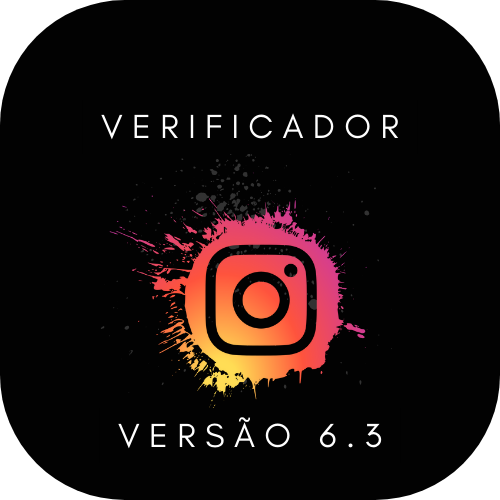
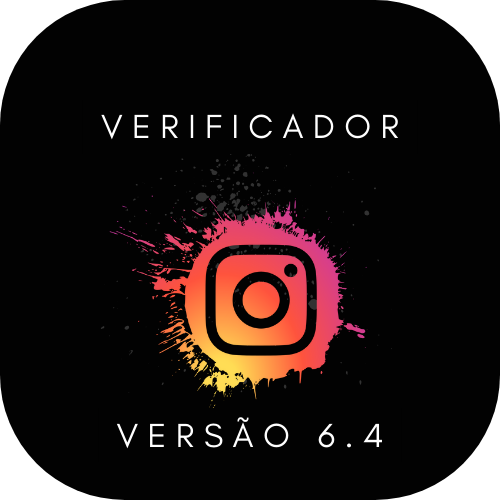
Atualização 6.4 - Adicionado sistema para coletar link de fotos de cada perfil

Changed region(s): [[0.24, 0.84, 0.6, 0.9], [0.72, 0.84, 0.78, 0.9], [0.63, 0.84, 0.69, 0.9]]

diff --git a/interface_verificador.py b/interface_verificador.py
@@ -5,9 +5,9 @@ from threading import Thread
 from playwright.sync_api import sync_playwright
 from PyQt5.QtCore import QObject, Qt, QTimer, pyqtSignal
 from PyQt5.QtGui import QIcon
-from PyQt5.QtWidgets import (QApplication, QComboBox, QDesktopWidget,
-                             QHBoxLayout, QLabel, QPushButton, QTextEdit,
-                             QVBoxLayout, QWidget)
+from PyQt5.QtWidgets import (QApplication, QComboBox, QDesktopWidget, QFrame,
+                             QHBoxLayout, QLabel, QPushButton, QScrollArea,
+                             QTextEdit, QVBoxLayout, QWidget)
 
 from main import run
 from styles.css_verificador import estilo_verificador
@@ -39,7 +39,6 @@ class MainWindow(QWidget):
         super().__init__()
 
         self.setWindowTitle('IR Automações')
-        
         self.resize(350, 600)  # Definindo o tamanho da janela
 
         # Centraliza a janela na tela
@@ -61,55 +60,76 @@ class MainWindow(QWidget):
         icone_logo = QIcon(logo)
 
         # Define um layout principal vertical
-        layout = QVBoxLayout()
+        layout_principal = QVBoxLayout(self)
+
+        # Cria um widget de área de rolagem
+        scroll_area = QScrollArea()
+        scroll_area.setWidgetResizable(True)
+        layout_principal.addWidget(scroll_area)
+
+        # Cria um widget central para conter todos os widgets do layout rolável
+        central_widget = QWidget()
+        scroll_area.setWidget(central_widget)
+
+        # Define um layout principal vertical para o widget central
+        layout_central = QVBoxLayout(central_widget)
 
         # Título centralizado
         label_icone = QLabel()
-        icone_logo = QIcon('./storage/img/verificador.png')
         label_icone.setPixmap(icone_logo.pixmap(250, 250))
         label_icone.setAlignment(Qt.AlignCenter)
-        layout.addWidget(label_icone)
+        layout_central.addWidget(label_icone)
 
         # Formulário
         label_perfis = QLabel('Digite os perfis do Instagram:')
         label_perfis.setAlignment(Qt.AlignCenter)
+        layout_central.addWidget(label_perfis)
         self.lista_de_perfis = QTextEdit()
-        # Adicionando o placeholder
-        self.lista_de_perfis.setPlaceholderText("usuario senha\nusuario senha\nusuario senha\nusuario senha\nusuario senha\nusuario senha")  
+        self.lista_de_perfis.setPlaceholderText("usuario senha\nusuario senha\nusuario senha\nusuario senha\nusuario senha\nusuario senha")
+        layout_central.addWidget(self.lista_de_perfis)
         label_modo = QLabel('Navegador Visível')
         label_modo.setAlignment(Qt.AlignCenter)
-        self.modo = QComboBox()  # Removido o modo local para que possa ser acessado globalmente
+        layout_central.addWidget(label_modo)
+        self.modo = QComboBox()
         self.modo.addItems(['Sim', 'Não'])
+        layout_central.addWidget(self.modo)
         label_navegador = QLabel('Navegador padrão')
         label_navegador.setAlignment(Qt.AlignCenter)
-        self.navegador = QComboBox()  # Removido o navegador local para que possa ser acessado globalmente
+        layout_central.addWidget(label_navegador)
+        self.navegador = QComboBox()
         self.navegador.addItems(['Brave', 'Google Chrome', 'Edge'])
+        layout_central.addWidget(self.navegador)
+        label_link_posts = QLabel('Salvar link de fotos de cada perfil\nObs: A verificação ficará lenta.')
+        label_link_posts.setAlignment(Qt.AlignCenter)
+        layout_central.addWidget(label_link_posts)
+        self.link_posts = QComboBox()
+        self.link_posts.addItems(['Sim', 'Não'])
+        layout_central.addWidget(self.link_posts)
 
-        layout.addWidget(label_perfis)
-        layout.addWidget(self.lista_de_perfis)
-        layout.addWidget(label_modo)
-        layout.addWidget(self.modo)
-        layout.addWidget(label_navegador)
-        layout.addWidget(self.navegador)
+
+        # Adiciona um espaço flexível para empurrar os widgets para cima
+        layout_central.addStretch()
+
+        # Layout secundário para os widgets fixos na parte inferior
+        layout_fixo = QVBoxLayout()
 
         # Botão Iniciar
         btn_iniciar = QPushButton('Iniciar')
-        # Altera o cursor para o ícone de mão ao passar sobre o botão "Iniciar"
         btn_iniciar.setCursor(Qt.PointingHandCursor)
         btn_iniciar.clicked.connect(lambda: self.iniciar_em_thread(
-            self.lista_de_perfis.toPlainText().strip(), self.modo.currentText(), self.navegador.currentText()))
-        layout.addWidget(btn_iniciar)
+            self.lista_de_perfis.toPlainText().strip(), self.modo.currentText(), self.navegador.currentText(), self.link_posts.currentText()))
+        layout_fixo.addWidget(btn_iniciar)
 
         # Layout para os contadores
-        layout_horizontal = QHBoxLayout()
+        layout_horizontal_contadores = QHBoxLayout()
 
         # Contadores
         for icon_path in ['./storage/img/check.png', './storage/img/trash.png', './storage/img/complain.png']:
             label = QLabel()
             label.setPixmap(QIcon(icon_path).pixmap(100, 100))
-            layout_horizontal.addWidget(label)
+            layout_horizontal_contadores.addWidget(label)
             mensagem = QLabel()
-            layout_horizontal.addWidget(mensagem)
+            layout_horizontal_contadores.addWidget(mensagem)
             if icon_path == './storage/img/check.png':
                 self.mensagem_ativa = mensagem
             elif icon_path == './storage/img/trash.png':
@@ -117,10 +137,10 @@ class MainWindow(QWidget):
             elif icon_path == './storage/img/complain.png':
                 self.mensagem_bug = mensagem
 
-        layout.addLayout(layout_horizontal)
+        layout_fixo.addLayout(layout_horizontal_contadores)
 
-        # Aplica o layout à janela principal
-        self.setLayout(layout)
+        # Adiciona o layout fixo na parte inferior ao layout principal
+        layout_principal.addLayout(layout_fixo)
 
         # Carrega o estilo CSS
         estilo = estilo_verificador()
@@ -132,7 +152,7 @@ class MainWindow(QWidget):
         # QTimer para atualizar a interface a cada segundo
         self.timer = QTimer(self)
         self.timer.timeout.connect(self.atualizar_interface)
-        self.timer.start(1000)  # 1000 ms = 1 segundo
+        self.timer.start()
 
         # Instância global da classe Contadores
         self.contadores = Contadores()
@@ -144,17 +164,17 @@ class MainWindow(QWidget):
         self.modo.currentIndexChanged.connect(self.atualizar_conteudo)
         self.navegador.currentIndexChanged.connect(self.atualizar_conteudo)
 
-    def iniciar_em_thread(self, perfis, modo, navegadores):
-        thread = Thread(target=self.iniciar, args=(perfis, modo, navegadores))
+    def iniciar_em_thread(self, perfis, modo, navegadores, link_fotos):
+        thread = Thread(target=self.iniciar, args=(perfis, modo, navegadores, link_fotos))
         thread.start()
 
-    def iniciar(self, perfis, modo, navegadores):
+    def iniciar(self, perfis, modo, navegadores, link_fotos):
         def callback(contador_ativas, contador_inativas, contador_bug):
             self.contadores.atualizar_contadores(
                 contador_ativas, contador_inativas, contador_bug)
 
         playwright = sync_playwright().start()
-        run(playwright, modo, navegadores, perfis, callback)
+        run(playwright, modo, navegadores, perfis, callback, link_fotos)
         playwright.stop()
 
     def closeEvent(self, event):
@@ -181,6 +201,9 @@ class MainWindow(QWidget):
                 navegador_salvo = data.get('navegador', '')
                 if navegador_salvo:
                     self.navegador.setCurrentIndex(self.navegador.findText(navegador_salvo))
+                link_fotos_salvo = data.get('modo_link_fotos', '')
+                if link_fotos_salvo:
+                    self.link_posts.setCurrentIndex(self.link_posts.findText(link_fotos_salvo))
         except FileNotFoundError:
             pass
 
@@ -189,7 +212,9 @@ class MainWindow(QWidget):
         with open('./storage/config/localStorage.json', 'w') as file:
             data = {'configs': conteudo,
                     'modo': self.modo.currentText(),
-                    'navegador': self.navegador.currentText()}
+                    'navegador': self.navegador.currentText(),
+                    'modo_link_fotos': self.link_posts.currentText()
+                    }
             json.dump(data, file)
 
     def atualizar_conteudo(self):

diff --git a/instagram/pegar_links_fotos.py b/instagram/pegar_links_fotos.py
@@ -1,0 +1,39 @@
+import instaloader
+
+
+def pegar_link_perfis(usuario):
+    try:
+        # Criar uma instância do Instaloader
+        loader = instaloader.Instaloader()
+
+        # Carregar o perfil do usuário
+        perfil = instaloader.Profile.from_username(loader.context, usuario)
+
+        # Abrir o arquivo de saída em modo de adição
+        with open('./relatorios/link_posts.txt', 'a+') as arquivo:
+            # Escrever o nome de usuário uma vez
+            arquivo.write(usuario + ':\n')
+
+            # Contador para acompanhar o número de fotos coletadas
+            contador = 0
+
+            # Iterar sobre os posts do perfil
+            for post in perfil.get_posts():
+                if post.typename == "GraphImage":  # Verificar se o post é uma imagem
+                    link_post = f"https://www.instagram.com/p/{post.shortcode}/"
+                    arquivo.write(link_post + '\n')  # Salvar o link da página do post no arquivo
+                    
+                    contador += 1
+                    if contador >= 6:  # Parar após coletar as 6 primeiras fotos
+                        break
+            
+            # Adicionar uma linha em branco após cada bloco de links do usuário
+            arquivo.write('\n')
+            
+        return True
+    except Exception as erro:
+        # Gravando o erro em um arquivo de log
+        with open('./logs/erro_link_fotos.txt', 'a+') as arquivo:
+            arquivo.write(f'Erro ao pegar link de cada post no perfil. Código: {str(erro)}\n\n')
+        
+        return False

diff --git a/main.py b/main.py
@@ -4,12 +4,13 @@ from contas import (contas_ativas, contas_inativas, contas_vazias,
                     erro_ao_verificar, nao_fez_login)
 from instagram.acessar_perfil_instagram import acessar_perfil_instagram
 from instagram.detalhes_do_perfil import publicacoes
+from instagram.pegar_links_fotos import pegar_link_perfis
 from instagram.verificar_contas import verificacao_contas
 from mensagens.mensagens_coloridas import mensagem_fim, mensagem_titulo
 
 
 # Define a função principal
-def run(playwright, modo, navegadores, perfis, callback):
+def run(playwright, modo, navegadores, perfis, callback, link_fotos):
     try:
         # Exibe uma mensagem de título
         mensagem_titulo('Iniciando Verificação')
@@ -84,6 +85,12 @@ def run(playwright, modo, navegadores, perfis, callback):
                 # Neste caso, optamos por não fazer nada (passar)
                 pass
             
+            if link_fotos == 'Sim':
+                pegar_fotos = pegar_link_perfis(usuario_instagram)
+                
+                if pegar_fotos == False:
+                    pass
+                
             # Atualiza os contadores e chama o callback com base no resultado da verificação
             if res == 1:
                 contador_ativas += 1
